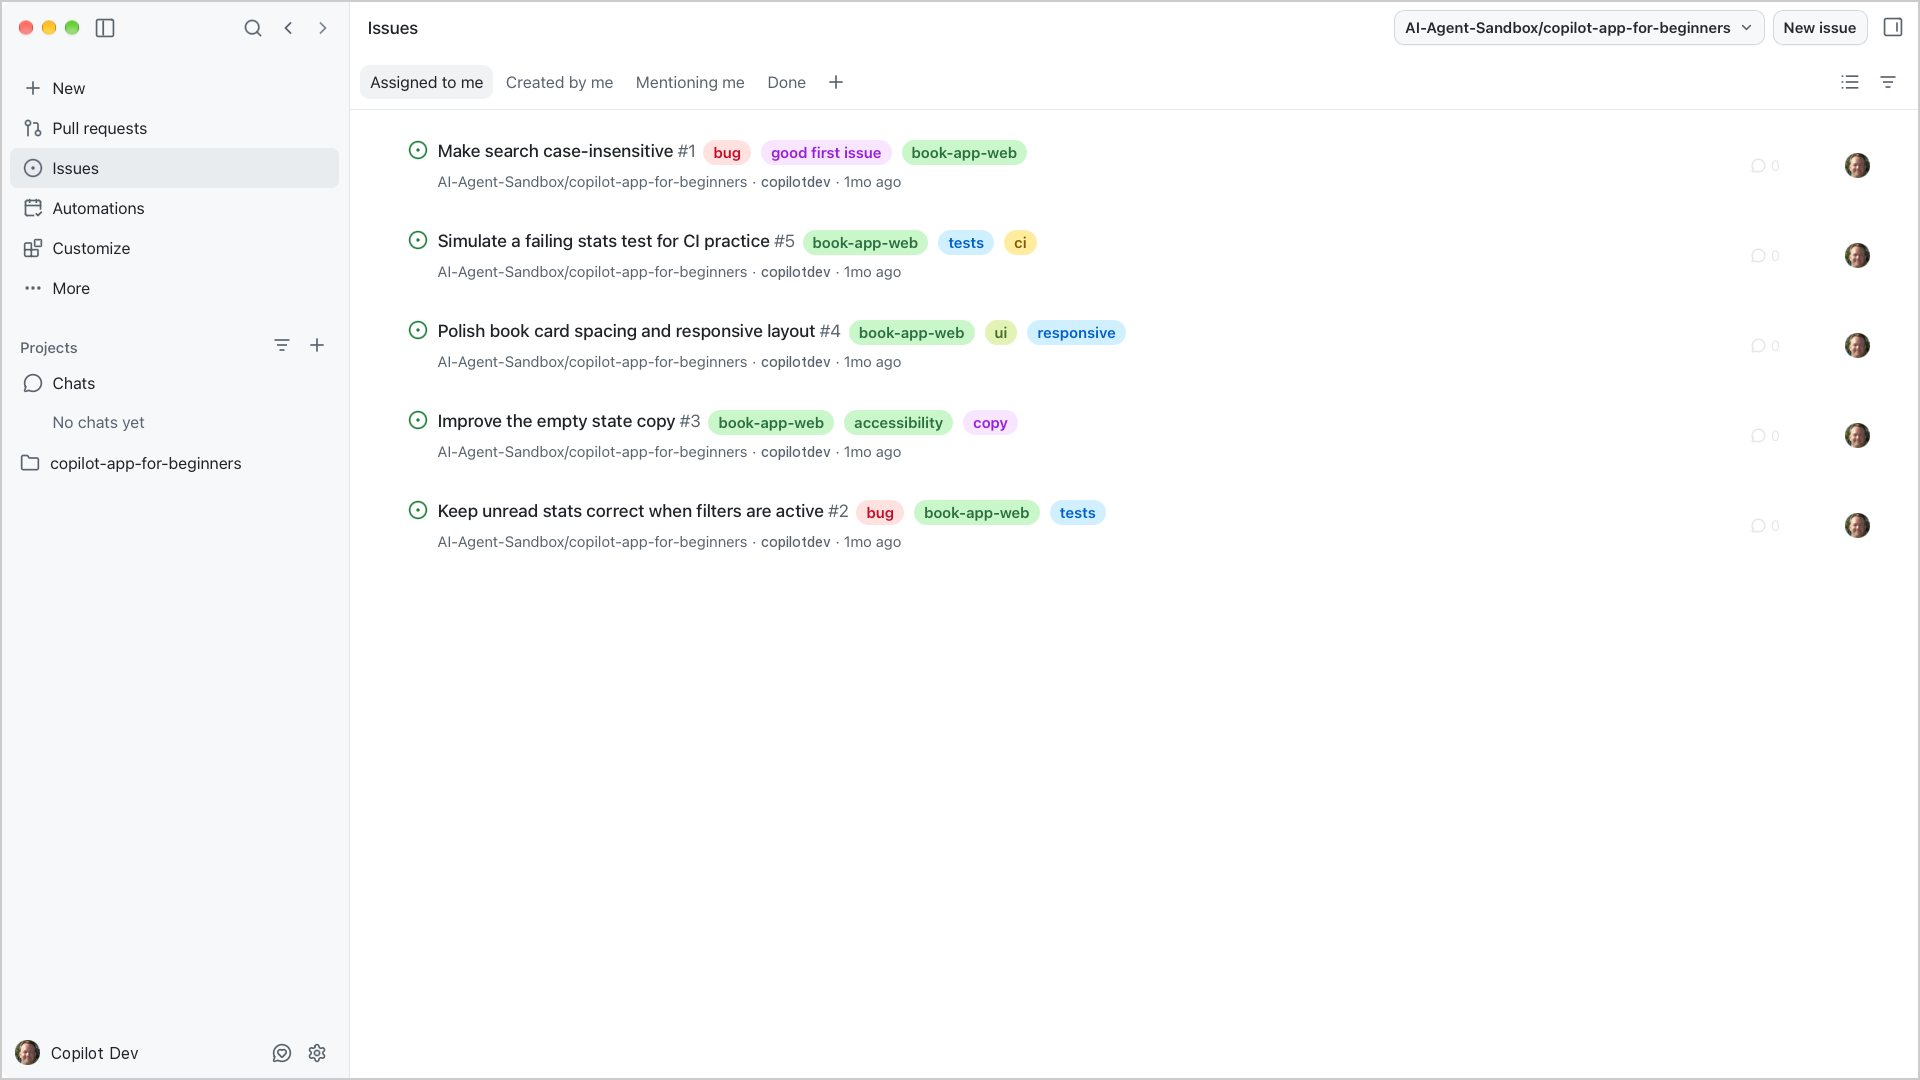
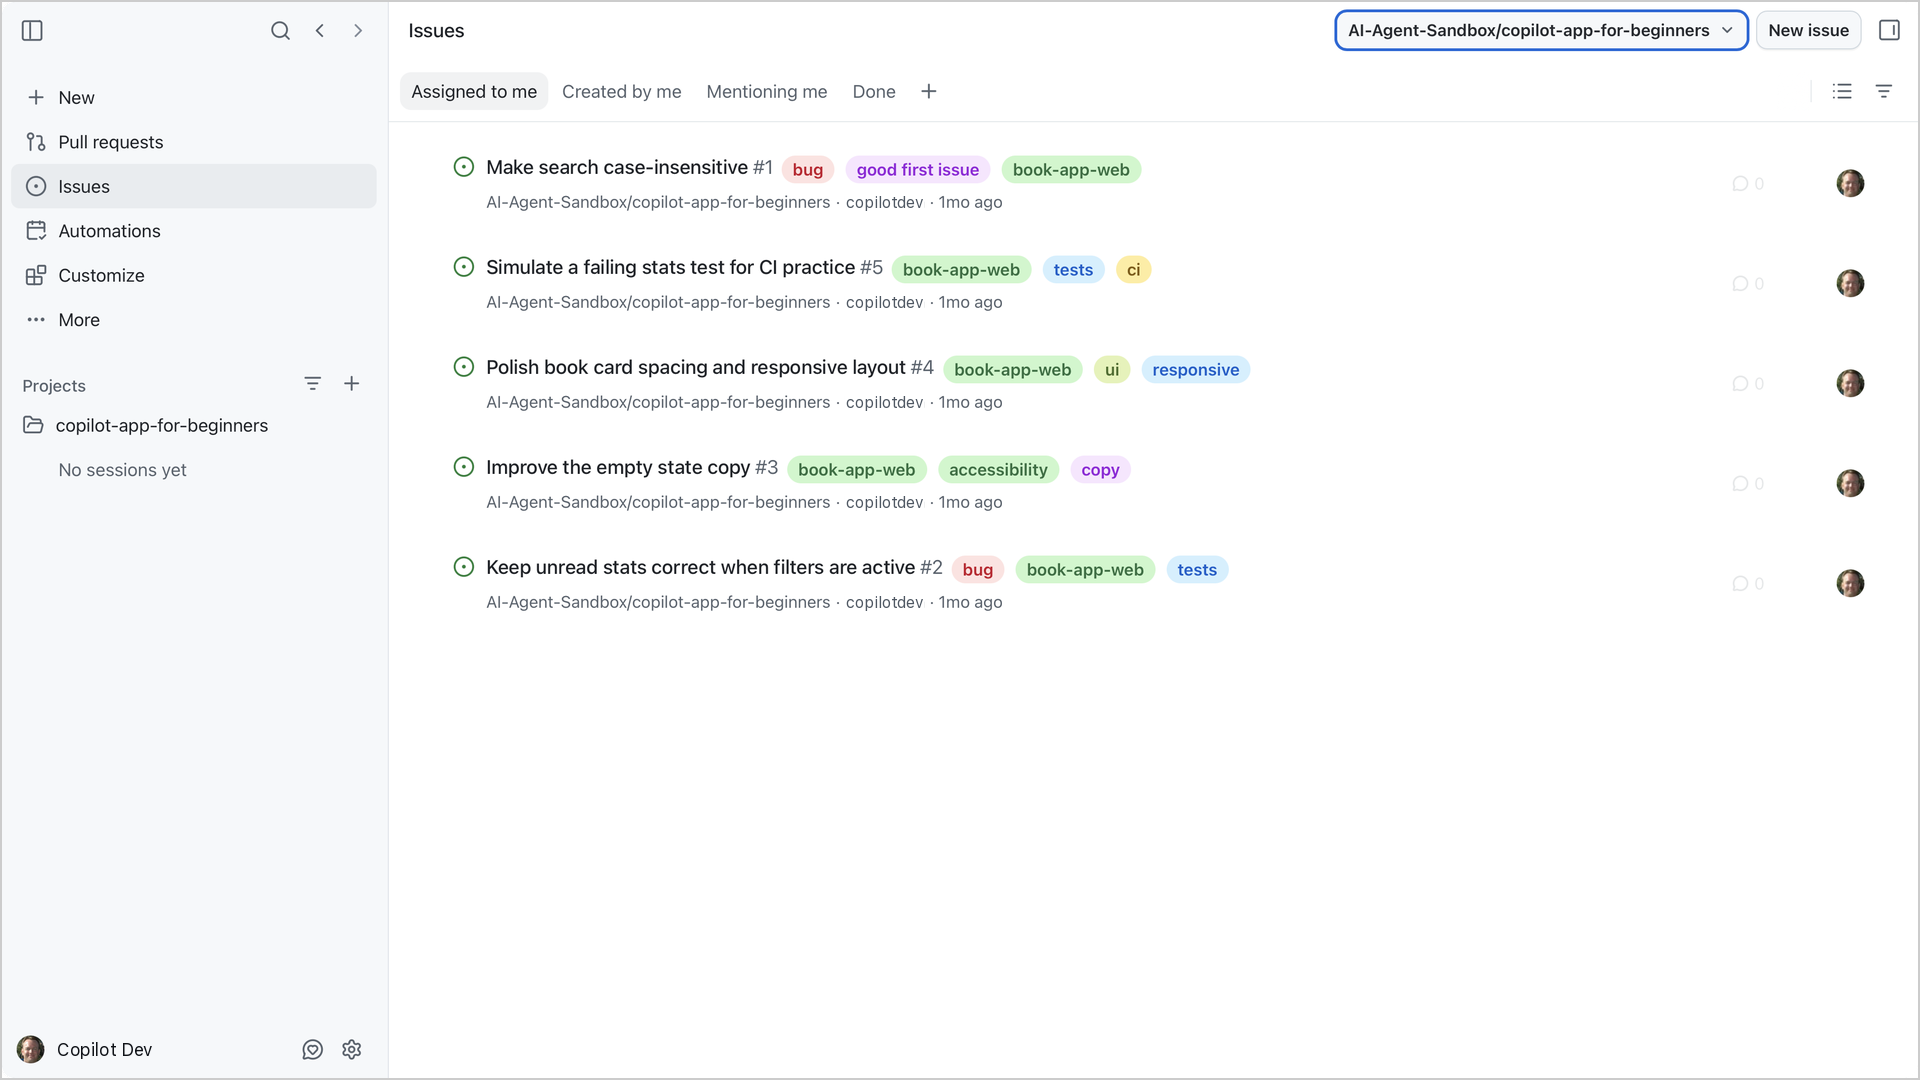
Update images

diff --git a/.github/skills/github-copilot-app-automation/sample_codes/macos-accessibility/prepare-copilot-state.swift b/.github/skills/github-copilot-app-automation/sample_codes/macos-accessibility/prepare-copilot-state.swift
@@ -129,8 +129,24 @@ guard let running = NSRunningApplication(processIdentifier: pid) else {
 }
 let application = AXUIElementCreateApplication(pid)
 let mode = arguments[2]
-_ = running.activate(options: [])
-Thread.sleep(forTimeInterval: 0.3)
+// Named Accessibility actions work without focus. In built-in display mode,
+// the user keeps working in another app, so activate the persona only for
+// keyboard commands, and give focus back to the previous app on exit.
+let builtinDisplay = ProcessInfo.processInfo.environment["COPILOT_CAPTURE_DISPLAY"] == "builtin"
+var previousApplication: NSRunningApplication?
+if !builtinDisplay {
+    _ = running.activate(options: [])
+    Thread.sleep(forTimeInterval: 0.3)
+} else if ["key", "highlight-menu-item"].contains(mode) {
+    previousApplication = NSWorkspace.shared.frontmostApplication
+    _ = running.activate(options: [])
+    Thread.sleep(forTimeInterval: 0.3)
+    atexit {
+        if let previous = previousApplication, previous.processIdentifier != pid {
+            _ = previous.activate(options: [])
+        }
+    }
+}
 
 switch mode {
 case "hover":

diff --git a/.github/skills/github-copilot-app-automation/sample_codes/macos-accessibility/control-copilot-window.swift b/.github/skills/github-copilot-app-automation/sample_codes/macos-accessibility/control-copilot-window.swift
@@ -18,7 +18,7 @@
 // laptop display instead, so you can keep working on other displays.
 //
 // "capture-zoom" resets the web zoom (Command+0) and then zooms in (Command+=)
-// four times by default, as the skill requires. That gives 175%. It waits
+// three times by default, as the skill requires. That gives 150%. It waits
 // for the app content to load first, and then measures a sidebar control to
 // confirm that the zoom took effect. It retries, and it fails if it cannot
 // confirm the zoom.
@@ -238,7 +238,7 @@ if mode == "frame" {
 if mode == "capture-zoom" {
     // Zoom levels that Command+= steps through, starting at 100%.
     let levels: [Double] = [100, 110, 125, 150, 175, 200, 250, 300]
-    var steps = 4
+    var steps = 3
     if let extraArgument {
         guard let explicitSteps = Int(extraArgument), (0..<levels.count).contains(explicitSteps) else {
             fail("Zoom steps must be a whole number from 0 to \(levels.count - 1).")

diff --git a/.github/skills/github-copilot-app-automation/sample_codes/macos-accessibility/hide-window-controls.py b/.github/skills/github-copilot-app-automation/sample_codes/macos-accessibility/hide-window-controls.py
@@ -1,0 +1,85 @@
+#!/usr/bin/env python3
+"""Remove the macOS window buttons from a finalized course screenshot.
+
+The three round window buttons (close, minimize, zoom) in the top-left corner
+show that the screenshot comes from macOS. This script removes them and moves
+the sidebar toggle icon that follows them to the place of the first button, so
+the screenshot does not show the operating system.
+
+The script finds the buttons from the pixels: three round controls of the same
+size with equal gaps, followed by the sidebar icon. If it cannot find that
+layout, it stops and does not change the image.
+
+Usage:
+  hide-window-controls.py <finalized_1920x1080_png>
+"""
+
+from __future__ import annotations
+
+import sys
+from pathlib import Path
+from statistics import median
+
+from PIL import Image
+
+BAND = (10, 52)  # Rows that contain the title bar controls.
+SEARCH = (8, 200)  # Columns to search, from the left edge of the window.
+INK = 18  # Minimum color difference from the background.
+
+
+def fail(message: str) -> None:
+    print(message, file=sys.stderr)
+    raise SystemExit(1)
+
+
+def main() -> None:
+    if len(sys.argv) != 2:
+        fail("Usage: hide-window-controls.py <finalized_1920x1080_png>")
+    path = Path(sys.argv[1])
+    image = Image.open(path).convert("RGB")
+    pixels = image.load()
+    rows = range(*BAND)
+    columns = range(*SEARCH)
+
+    background = {
+        y: tuple(int(median(pixels[x, y][c] for x in columns)) for c in range(3))
+        for y in rows
+    }
+
+    def is_ink(x: int, y: int) -> bool:
+        return sum(abs(pixels[x, y][c] - background[y][c]) for c in range(3)) > INK
+
+    clusters: list[list[int]] = []
+    for x in columns:
+        if any(is_ink(x, y) for y in rows):
+            if clusters and x - clusters[-1][1] <= 3:
+                clusters[-1][1] = x
+            else:
+                clusters.append([x, x])
+
+    if len(clusters) < 4:
+        fail(f"{path}: the window buttons were not found. The image was not changed.")
+    buttons, icon = clusters[:3], clusters[3]
+    widths = [right - left for left, right in buttons]
+    gaps = [buttons[1][0] - buttons[0][0], buttons[2][0] - buttons[1][0]]
+    if max(widths) - min(widths) > 3 or abs(gaps[0] - gaps[1]) > 3 or not 8 <= widths[0] <= 30:
+        fail(f"{path}: the top-left controls do not look like window buttons. The image was not changed.")
+
+    icon_rows = [y for y in rows if any(is_ink(x, y) for x in range(icon[0], icon[1] + 1))]
+    top, bottom = icon_rows[0] - 1, icon_rows[-1] + 2
+    left, right = icon[0] - 1, icon[1] + 2
+    icon_image = image.crop((left, top, right, bottom))
+
+    # Clear the buttons and the old icon with the background of each row.
+    clear_left, clear_right = buttons[0][0] - 2, icon[1] + 3
+    for y in rows:
+        for x in range(clear_left, clear_right):
+            pixels[x, y] = background[y]
+
+    image.paste(icon_image, (buttons[0][0] - 1, top))
+    image.save(path)
+    print(f"window buttons removed; sidebar icon moved from x={icon[0]} to x={buttons[0][0]}")
+
+
+if __name__ == "__main__":
+    main()

diff --git a/.github/skills/github-copilot-app-automation/sample_codes/macos-accessibility/sanitize-screenshot.py b/.github/skills/github-copilot-app-automation/sample_codes/macos-accessibility/sanitize-screenshot.py
@@ -179,7 +179,11 @@ def ocr_words(
             errors="replace",
         )
     words: list[dict[str, object]] = []
-    for row in csv.DictReader(io.StringIO(result.stdout), delimiter="\t"):
+    # Tesseract TSV does not quote fields. A word that starts with a quote
+    # mark must not make the reader join the following rows into one field.
+    for row in csv.DictReader(
+        io.StringIO(result.stdout), delimiter="\t", quoting=csv.QUOTE_NONE
+    ):
         text = row.get("text", "").strip()
         try:
             confidence = float(row.get("conf", "-1"))
@@ -502,7 +506,7 @@ def calibrated_font(
         fail("No supported system font was found.")
 
     def fit(path: str, weight: float | None) -> tuple[float, ImageFont.FreeTypeFont]:
-        # The app zoom (for example, 175%) gives fractional pixel sizes, so try quarter
+        # The app zoom (for example, 150%) gives fractional pixel sizes, so try quarter
         # sizes. Whole sizes alone can miss the real size by enough to choose
         # the wrong family.
         best_fit: tuple[float, ImageFont.FreeTypeFont] | None = None
@@ -869,7 +873,8 @@ def replace_span(image: Image.Image, replacement: Replacement) -> None:
     # The band is not plain (for example, the text sits on a chip or a
     # highlight). Replace the span in place without moving other content.
     gap = geometry.neighbor_left - geometry.right - 1
-    keep_gap = min(gap, max(3, round(gap * 0.6)))
+    # A small gap is the space between two words. Keep all of it.
+    keep_gap = gap if gap <= 12 else min(gap, max(3, round(gap * 0.6)))
     suffix = None
     if span_right <= geometry.right:
         suffix = image.crop((span_right, band_top, geometry.right + 1, band_bottom + 1))

diff --git a/.github/skills/github-copilot-app-automation/SKILL.md b/.github/skills/github-copilot-app-automation/SKILL.md
@@ -36,7 +36,7 @@ COPILOT_PID="$(bash "$SK/prepare-persona.sh" "$PERSONA" "$REPO" 60)"
 
 This keeps the existing login and persona data, starts a separate app process,
 sets only that window to a standard 1920x1080-point frame, resets the display
-zoom and zooms in four times (the zoom is measured and confirmed), enables and
+zoom and zooms in three times (the zoom is measured and confirmed), enables and
 verifies **Streamer Mode**, verifies that the account is signed in, verifies the
 exact local repository, dismisses transient banners, and returns its process
 ID. If the
@@ -49,7 +49,7 @@ screen: it can draw the menu bar and title bar over the app content.
 To keep working on other displays during capture, set
 `COPILOT_CAPTURE_DISPLAY=builtin` for both `prepare-persona.sh` and
 `capture-window.sh`. The window then opens on the built-in laptop display and
-zooms in three times instead of four, because the laptop frame is smaller.
+zooms in twice instead of three times, because the laptop frame is smaller.
 After setup, focus goes back to the app that you used before. The pointer is
 not moved, and the capture does not activate the persona. Do not type during
 the first launch seconds, and keep the laptop display on its current Space.
@@ -205,7 +205,7 @@ Only use this workflow when the user has agreed the App can be visible or when t
    image, view the old image first and list its callouts, boxes, and crop.
 2. Launch a new process from the persistent `demo` persona with
    `prepare-persona.sh`. The pre-step sets a standard 1920x1080-point window,
-   resets zoom, zooms in four times, and enables and verifies **Streamer Mode**. It
+   resets zoom, zooms in three times, and enables and verifies **Streamer Mode**. It
    fails closed if Streamer Mode or the zoom cannot be verified. Pass the exact
    local training repository and keep the returned process ID. Turn off Siri
    before you capture: its waveform orb can appear next to a focused text field,
@@ -242,14 +242,21 @@ Only use this workflow when the user has agreed the App can be visible or when t
 7. Keep PNG as the source artifact; use WebP in web/course pages.
 8. Confirm that full-window files are exactly 1920x1080. A crop keeps the size
    of its crop rectangle.
-9. Confirm that the image has a 2px `#cccccc` border inside its edges.
-10. Confirm that the output keeps the avatar, shows **Copilot Dev** instead of a
+9. Confirm that the image has a 2px `#cccccc` border inside its edges, and
+   that no window corner shows black pixels. The app window has transparent
+   rounded corners. Put an image on white before any RGB conversion or
+   resize, or the corners turn black. `capture-window.sh` stops if it finds
+   dark corner pixels.
+10. Confirm that the three macOS window buttons do not show in the top-left
+    corner and that the sidebar icon is in their place. `capture-window.sh`
+    does this with `hide-window-controls.py`.
+11. Confirm that the output keeps the avatar, shows **Copilot Dev** instead of a
    person's profile name, and uses **copilotdev** for matching personal
    repository owners, paths, and branch names.
-11. For Settings screenshots, confirm that no app version is visible.
-12. Review the screenshot for other private data before committing or
+12. For Settings screenshots, confirm that no app version is visible.
+13. Review the screenshot for other private data before committing or
    publishing.
-13. Restore any persona state that you changed for the capture (hidden
+14. Restore any persona state that you changed for the capture (hidden
    projects, installed plugins or MCP servers, test automations or sessions),
    then close the exact process with `cleanup-persona.sh` only after the
    capture is verified. Keep the signed-in persona for the next screenshot.
@@ -266,7 +273,7 @@ Use:
 - [ensure-streamer-mode.swift](sample_codes/macos-accessibility/ensure-streamer-mode.swift) — enables and verifies Streamer Mode before screenshot preparation
 - [cleanup-persona.sh](sample_codes/macos-accessibility/cleanup-persona.sh) — stops one exact screenshot process and preserves the signed-in persona
 - [launch-persona.sh](sample_codes/macos-accessibility/launch-persona.sh) — low-level launcher used by `prepare-persona.sh`
-- [control-copilot-window.swift](sample_codes/macos-accessibility/control-copilot-window.swift) — sets the 1920x1080-point capture frame and the measured 175% capture zoom (150% on the built-in display) for one exact app process
+- [control-copilot-window.swift](sample_codes/macos-accessibility/control-copilot-window.swift) — sets the 1920x1080-point capture frame and the measured 150% capture zoom (125% on the built-in display) for one exact app process
 - [control-copilot-ui.swift](sample_codes/macos-accessibility/control-copilot-ui.swift) — presses one named Accessibility control in an exact app process
 - [prepare-copilot-state.swift](sample_codes/macos-accessibility/prepare-copilot-state.swift) — prepares transient states: focus a hover-only control, highlight a menu item, set a field value, dismiss banners, and park the pointer
 - [locate-copilot-element.swift](sample_codes/macos-accessibility/locate-copilot-element.swift) — prints the final 1920x1080 coordinates of named controls for callouts, boxes, and crops
@@ -275,6 +282,7 @@ Use:
 - [app-ui-map.md](references/app-ui-map.md) — sanitized factual UI map (menus, sidebar, views, composer controls), regenerable via map-app.sh
 - [capture-window.sh](sample_codes/macos-accessibility/capture-window.sh) — recommended: process-filtered CoreGraphics window capture + WebP, with `--callout`, `--box`, `--arrow`, and `--crop`
 - [finalize-screenshot.py](sample_codes/macos-accessibility/finalize-screenshot.py) — enforces 1920x1080 output, adds the required 2px `#cccccc` inside border, and crops
+- [hide-window-controls.py](sample_codes/macos-accessibility/hide-window-controls.py) — removes the macOS window buttons and moves the sidebar icon into their place, so screenshots do not show the operating system
 - [add-step-callouts.py](sample_codes/macos-accessibility/add-step-callouts.py) — adds ordered red step badges, red highlight boxes, and red arrows to a finalized screenshot
 - [find-copilot-window.swift](sample_codes/macos-accessibility/find-copilot-window.swift) — lists on-screen Copilot windows with their window and process IDs
 - [map-app.sh](sample_codes/macos-accessibility/map-app.sh) — version-stamped UI map for grounding steps and diffing app updates

diff --git a/.github/skills/github-copilot-app-automation/references/screenshot-capture.md b/.github/skills/github-copilot-app-automation/references/screenshot-capture.md
@@ -9,8 +9,16 @@ Capture visible GitHub Copilot app states for course material:
 - Make full-window files exactly **1920x1080**. A crop keeps the size of its
   crop rectangle.
 - Add a **2px `#cccccc` border** inside the image edges, also on crops.
+- Remove the macOS window buttons (close, minimize, zoom) from the top-left
+  corner and move the sidebar icon into their place, so the screenshot does
+  not show the operating system. `capture-window.sh` runs
+  `hide-window-controls.py` for this.
+- Do not let the window corners turn black. The window has transparent
+  rounded corners. Put the image on white before any RGB conversion or resize.
+  `capture-window.sh` checks the corners before it adds annotations, and stops
+  if it finds dark pixels.
 - Capture a standard 1920x1080-point window, not full screen.
-- Reset display zoom, then zoom in exactly four times (175%) before preparing the
+- Reset display zoom, then zoom in exactly three times (150%) before preparing the
   screen.
 - Enable and verify **Streamer Mode** before preparing the screen.
 - Remove the app version from Settings screenshots after capture.
@@ -39,9 +47,9 @@ The preparation workflow:
 - Finds the new process instead of reusing an existing Copilot process.
 - Sets only that process's main window to a standard 1920x1080-point frame,
   centered on its display.
-- Resets display zoom, zooms in four times, and measures a sidebar control to
-  confirm the 175% zoom. With `COPILOT_CAPTURE_DISPLAY=builtin`, it uses the
-  built-in laptop display and three zoom steps (150%). It retries and fails if it cannot confirm the zoom.
+- Resets display zoom, zooms in three times, and measures a sidebar control to
+  confirm the 150% zoom. With `COPILOT_CAPTURE_DISPLAY=builtin`, it uses the
+  built-in laptop display and two zoom steps (125%). It retries and fails if it cannot confirm the zoom.
 - Enables and verifies Streamer Mode so unreleased features are hidden.
 - Verifies that the persona is signed in.
 - Opens the exact repository path through the native folder picker if needed.
@@ -304,7 +312,7 @@ For research artifacts:
 1. Extract the image context with `screenshot-context.py`.
 2. Launch a new process from the signed-in `demo` persona with
    `prepare-persona.sh`.
-3. Confirm that the pre-step set the capture frame, confirmed the 175% zoom,
+3. Confirm that the pre-step set the capture frame, confirmed the 150% zoom,
    and verified Streamer Mode as enabled. Then use process-scoped Accessibility
    to reach the required state.
 4. Wait 1-2 seconds for UI to settle.

diff --git a/07-automations/README.md b/07-automations/README.md
@@ -116,6 +116,7 @@ To create an automation:
 1. Select **New automation**.
 1. Provide a name for the automation: `PR review readiness report`
 1. Change the **Trigger** from **Daily** to **Manual**.
+1. Make sure **Run in the cloud** is off, so the automation runs locally.
 1. Paste the prompt below:
 
    ```text
@@ -133,7 +134,7 @@ To create an automation:
 1. In the **Workspace** picker that appears next to the project, select **Current checkout**. This report only reads data, so each run doesn't need its own new worktree.
 1. Select the arrow next to **Create**, then select **Create and run**.
 
-   ![New automation form with filled details](assets/app-new-automation.webp)
+   ![New automation form with the Manual trigger, Run in the cloud off, the course project, Current checkout, and the Create and run option open](assets/app-new-automation.webp)
 
    **Expected Output:** Your automation should appear under **Your automations** with the **Manual** trigger. The run should start immediately and appear under **Recent runs**.
 
@@ -205,11 +206,13 @@ The current Trigger menu includes these event triggers:
 | Trigger | Fires when... | Example use |
 |---|---|---|
 | **Issue** | A matching issue event occurs | Summarize issue activity for triage |
+| **Automation completed** | An automation that you name under **Upstream Automations** completes | Start a follow-up report after a triage run |
 | **Discussion comment** | A comment is added to a discussion | Summarize new discussion feedback |
 | **Discussion opened** | A discussion is opened | Prepare a short discussion summary |
 | **Discussion updated** | A discussion is updated | Report what changed in a discussion |
 | **Pull request** | A matching pull request event occurs | Summarize changes for a reviewer |
 | **Sub issue added** | A sub-issue is added | Report changes to an issue breakdown |
+| **Workflow** | A GitHub Actions workflow that you name completes (for example, it fails) | Summarize why a CI run failed |
 
 Choose the trigger that matches the event you want the automation to handle. Schedule choices such as **Hourly**, **Daily**, **Weekly**, and **CRON** appear in the same menu.
 

diff --git a/.github/skills/github-copilot-app-automation/references/missing-screenshots.md b/.github/skills/github-copilot-app-automation/references/missing-screenshots.md
@@ -14,7 +14,7 @@ chapters add, edit, or remove placeholders over time.
 > From the repo root, with:
 > `SK=.github/skills/github-copilot-app-automation/sample_codes/macos-accessibility`
 
-Prepare a new persona instance (standard 1920x1080-point window, 175% zoom)
+Prepare a new persona instance (standard 1920x1080-point window, 150% zoom)
 before each screenshot. Pass the local clone of the training fork:
 
 ```bash
